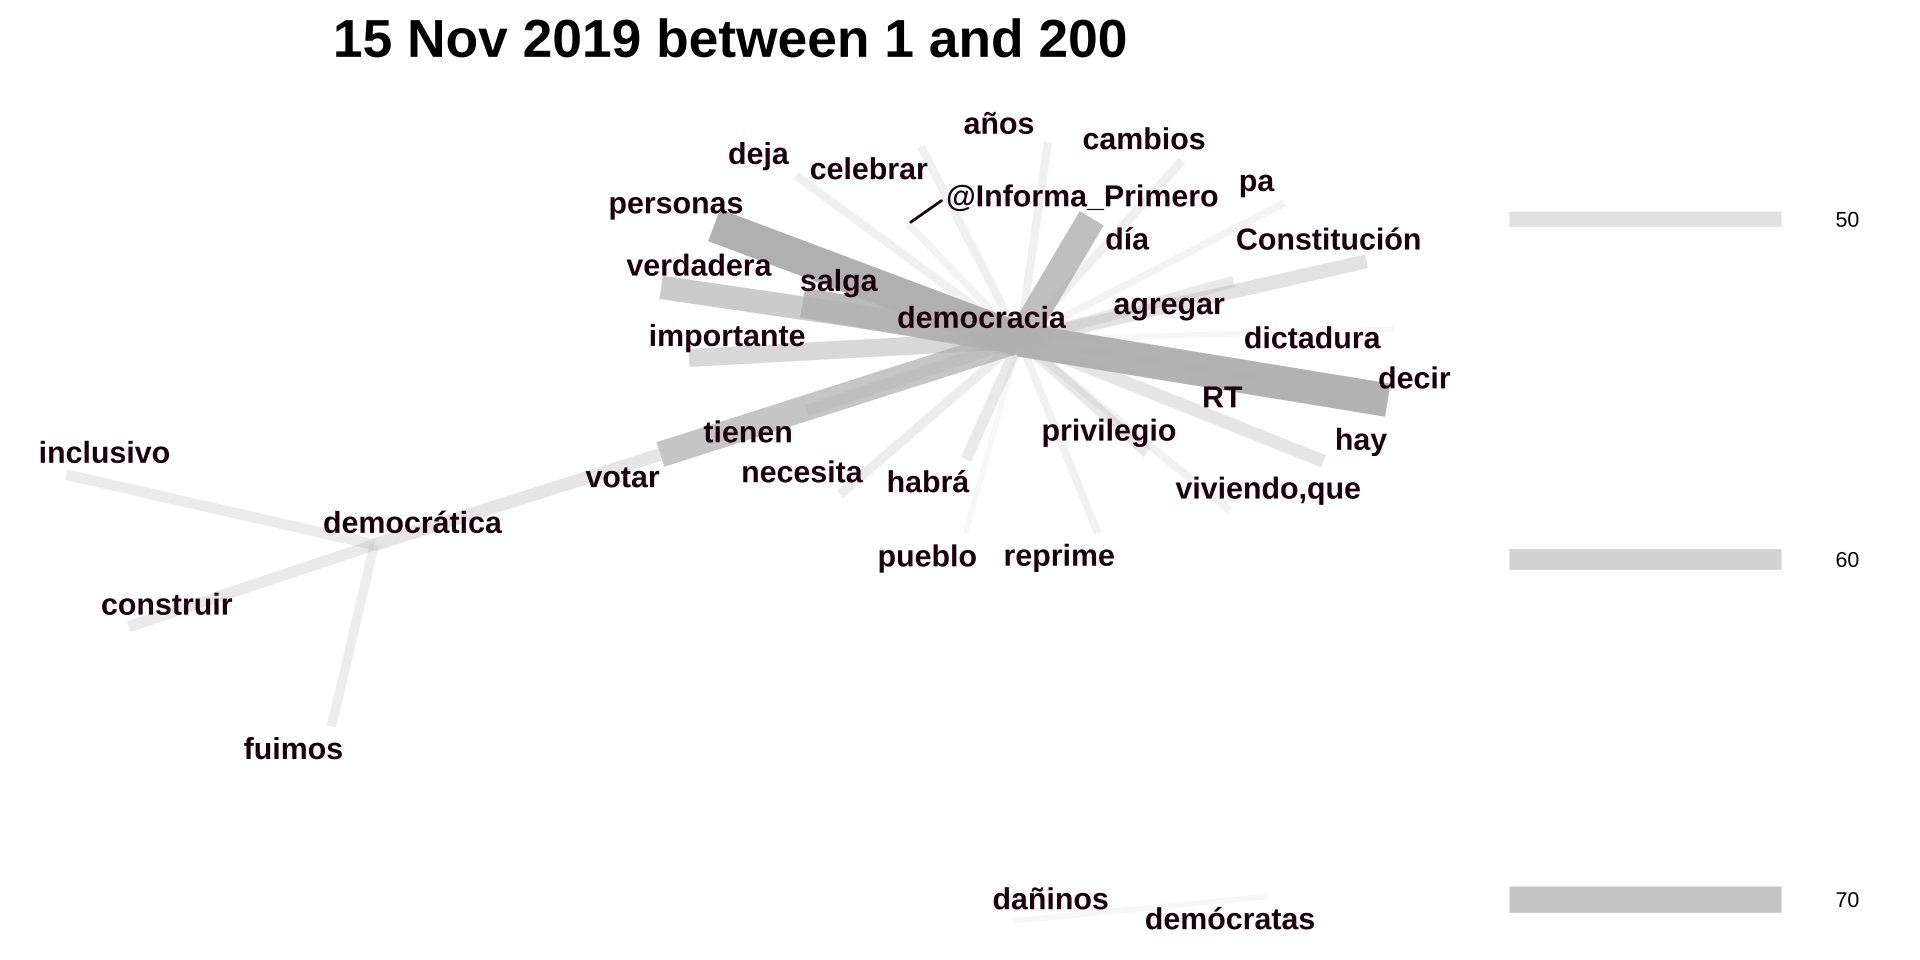
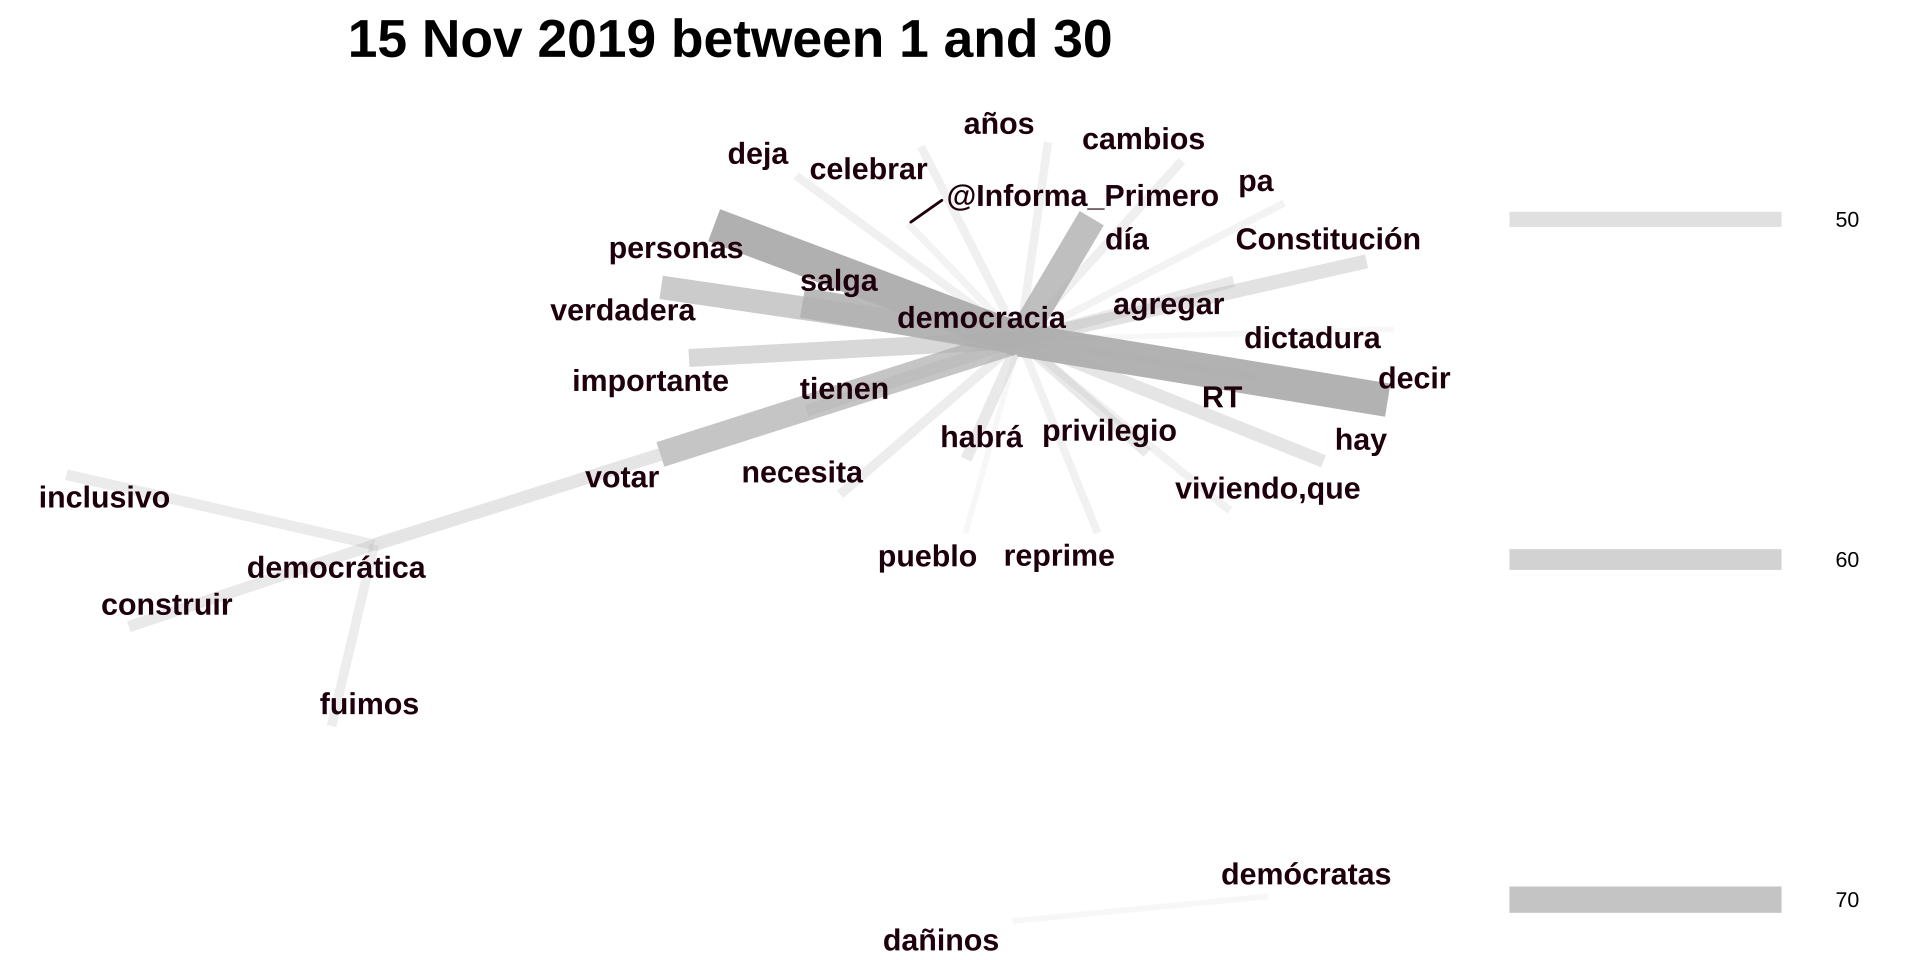
UPDATE

diff --git a/aarhus-template.html b/aarhus-template.html
@@ -553,7 +553,7 @@ Represor… </td>
 <h2>Visualizing Co-occurrence Frequency with Network Analysis</h2>
 <ul>
 <li><p>Top 30</p></li>
-<li><p>Comparison: <em>Top 20 at frequency</em> and _Top 30 at Co-occurrenceplot__</p></li>
+<li><p>Comparison: <em>Top 20 at frequency</em> and <em>Top 30 at Co-occurrenceplot</em></p></li>
 <li><p>Dates: <em>18 Oct 2019</em>, <em>25 Oct 2019</em> and <em>15 Nov 2019</em></p></li>
 </ul>
 </section>
@@ -561,7 +561,7 @@ Represor… </td>
 <section id="event-1-18-oct-2019" class="title-slide slide level1 center">
 <h1>Event 1: <strong><em>18 Oct 2019</em></strong></h1>
 <ul>
-<li><p>Data Frame: Top 20 Co-occurrence</p></li>
+<li><p>Dataframe: Top 20 Co-occurrence</p></li>
 <li><p>Co-occurrence Network: <strong><em>18 Oct 2019 Between 1 and 200</em></strong></p></li>
 </ul>
 </section>
@@ -643,7 +643,7 @@ Represor… </td>
 <section id="event-2-25-oct-2019" class="title-slide slide level1 center">
 <h1>Event 2: 25 Oct 2019</h1>
 <ul>
-<li><p>Data Frame: Top 20 Co-occurrence</p></li>
+<li><p>Dataframe: Top 20 Co-occurrence</p></li>
 <li><p>Co-occurrence Network: <strong><em>25 Oct 2019 Between 1 and 30</em></strong></p></li>
 </ul>
 </section>
@@ -775,7 +775,7 @@ Represor… </td>
 <section id="event-3-15-nov-2019" class="title-slide slide level1 center">
 <h1>Event 3: 15 Nov 2019</h1>
 <ul>
-<li><p>Data Frame: Top 20 Co-occurrence</p></li>
+<li><p>Dataframe: Top 20 Co-occurrence</p></li>
 <li><p>Co-occurrence Network: <strong><em>15 Nov 2019 Between 1 and 30</em></strong></p></li>
 </ul>
 </section>
